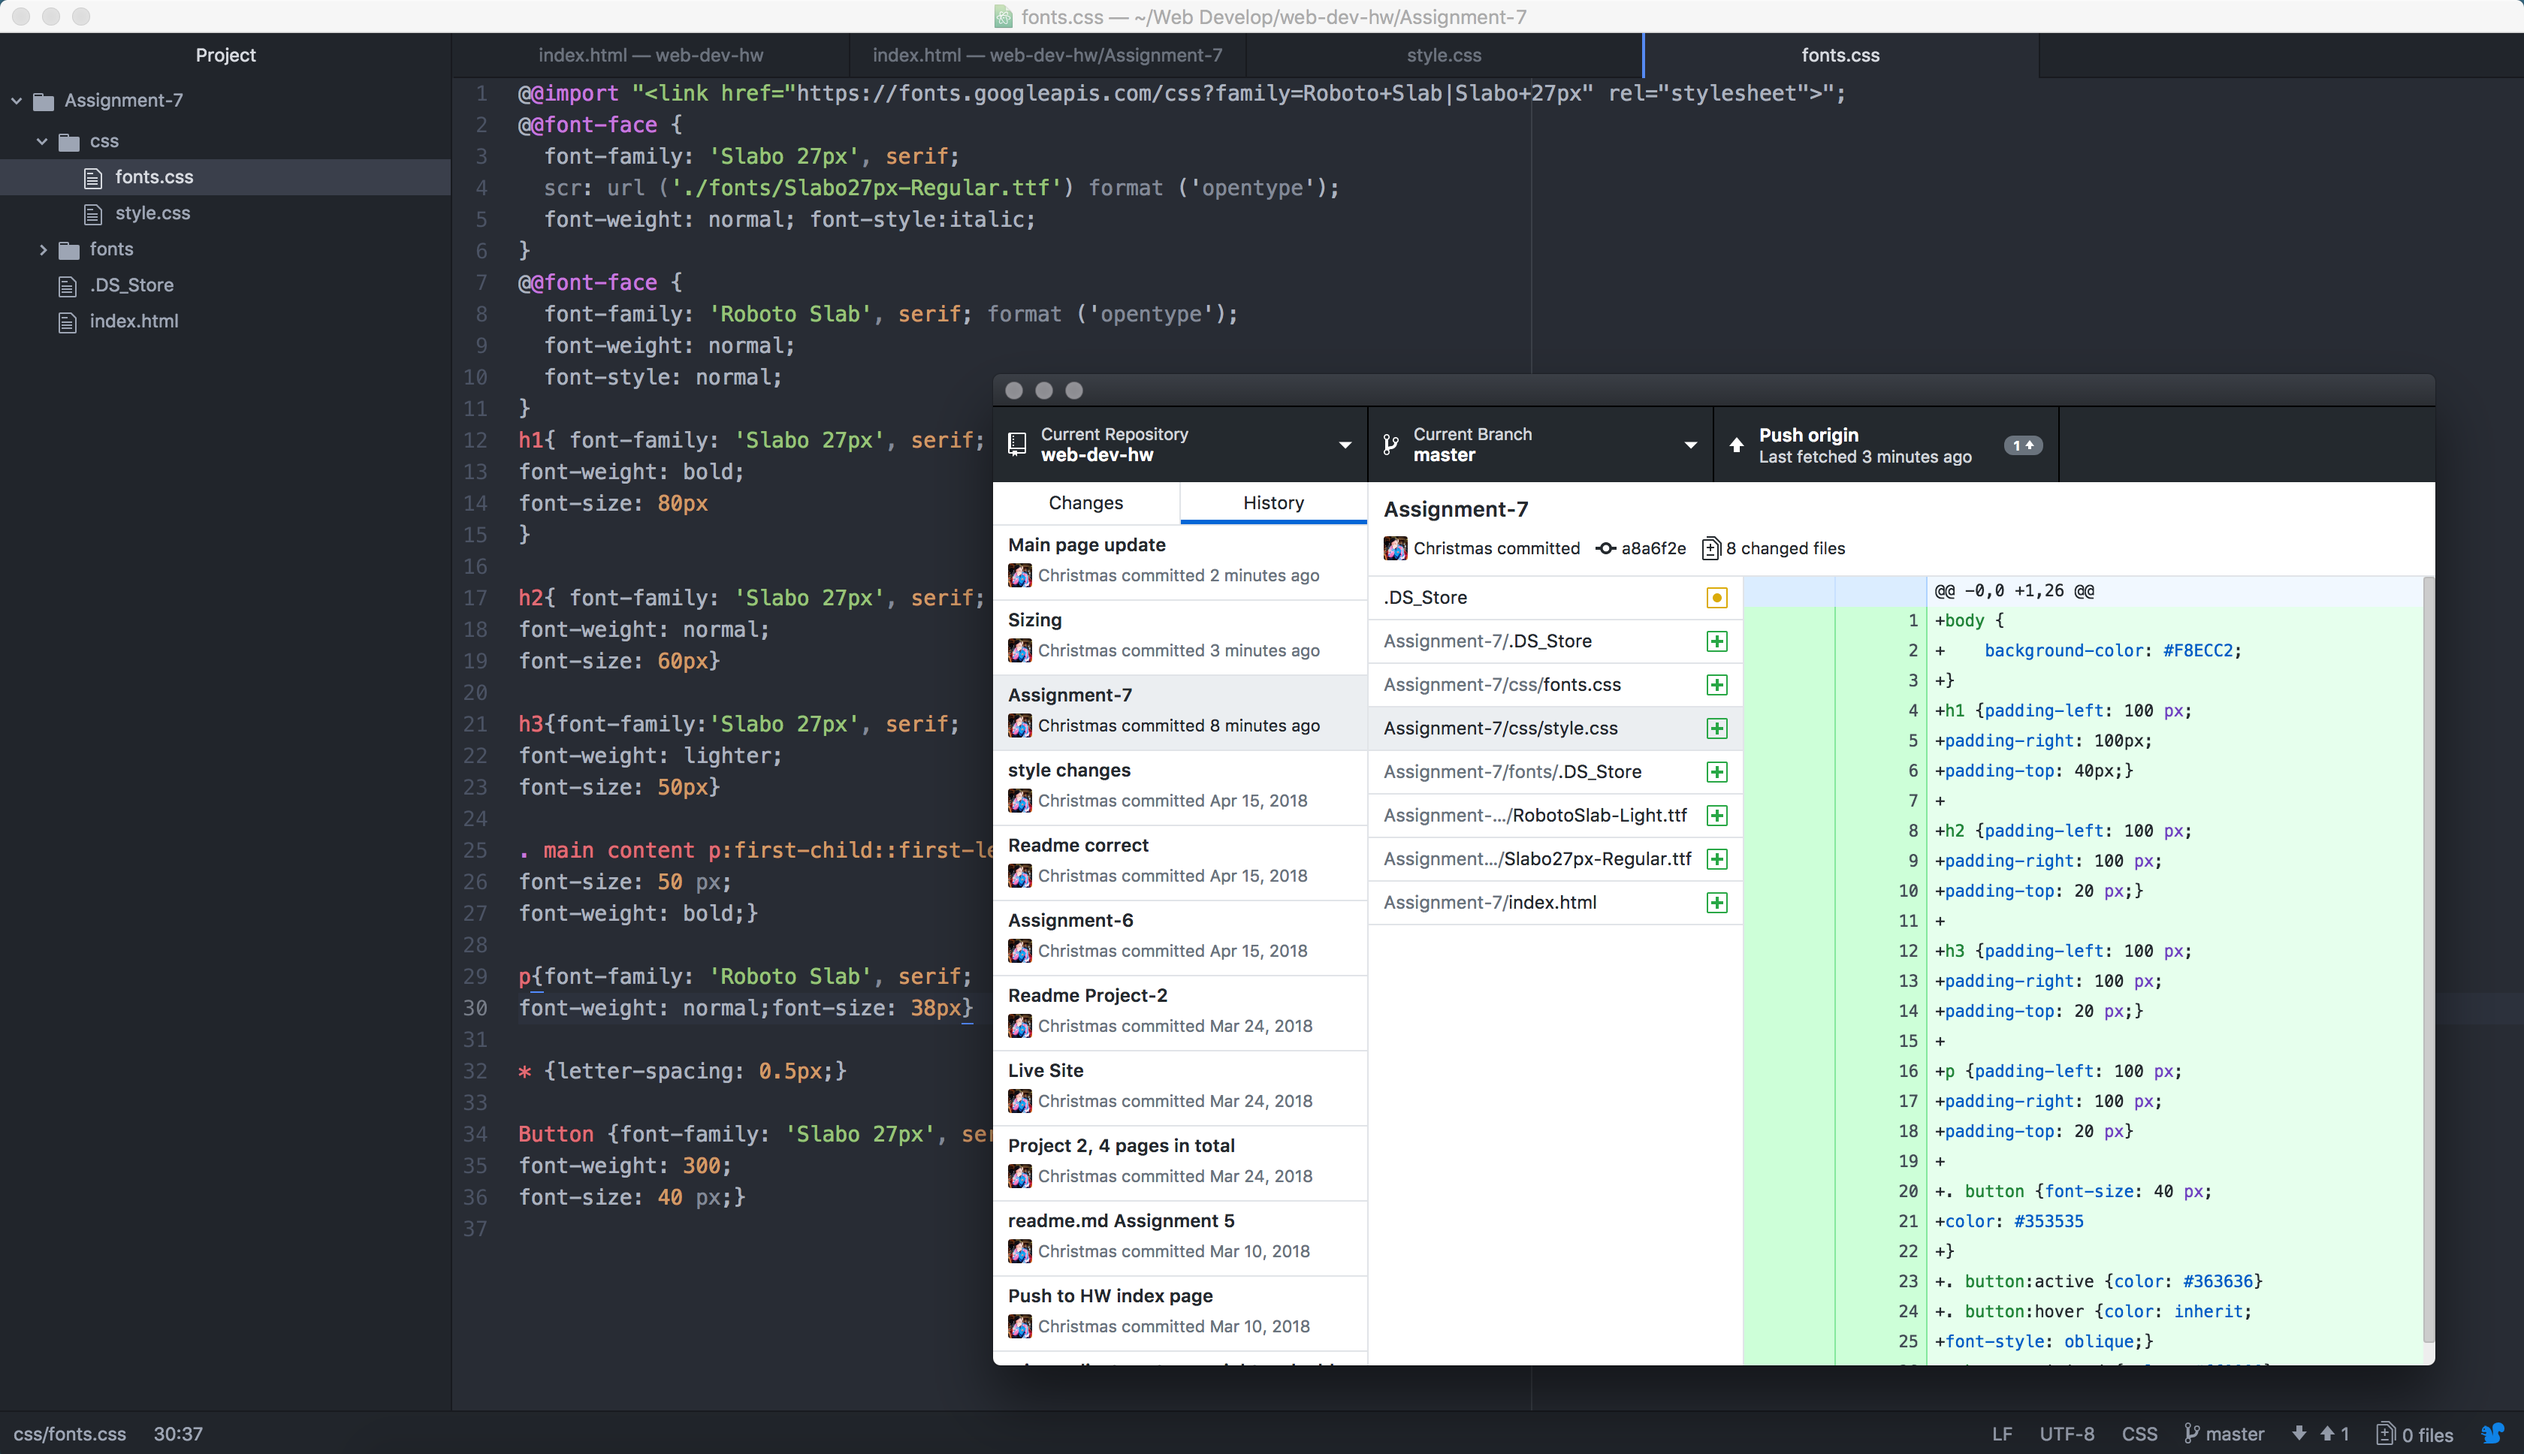
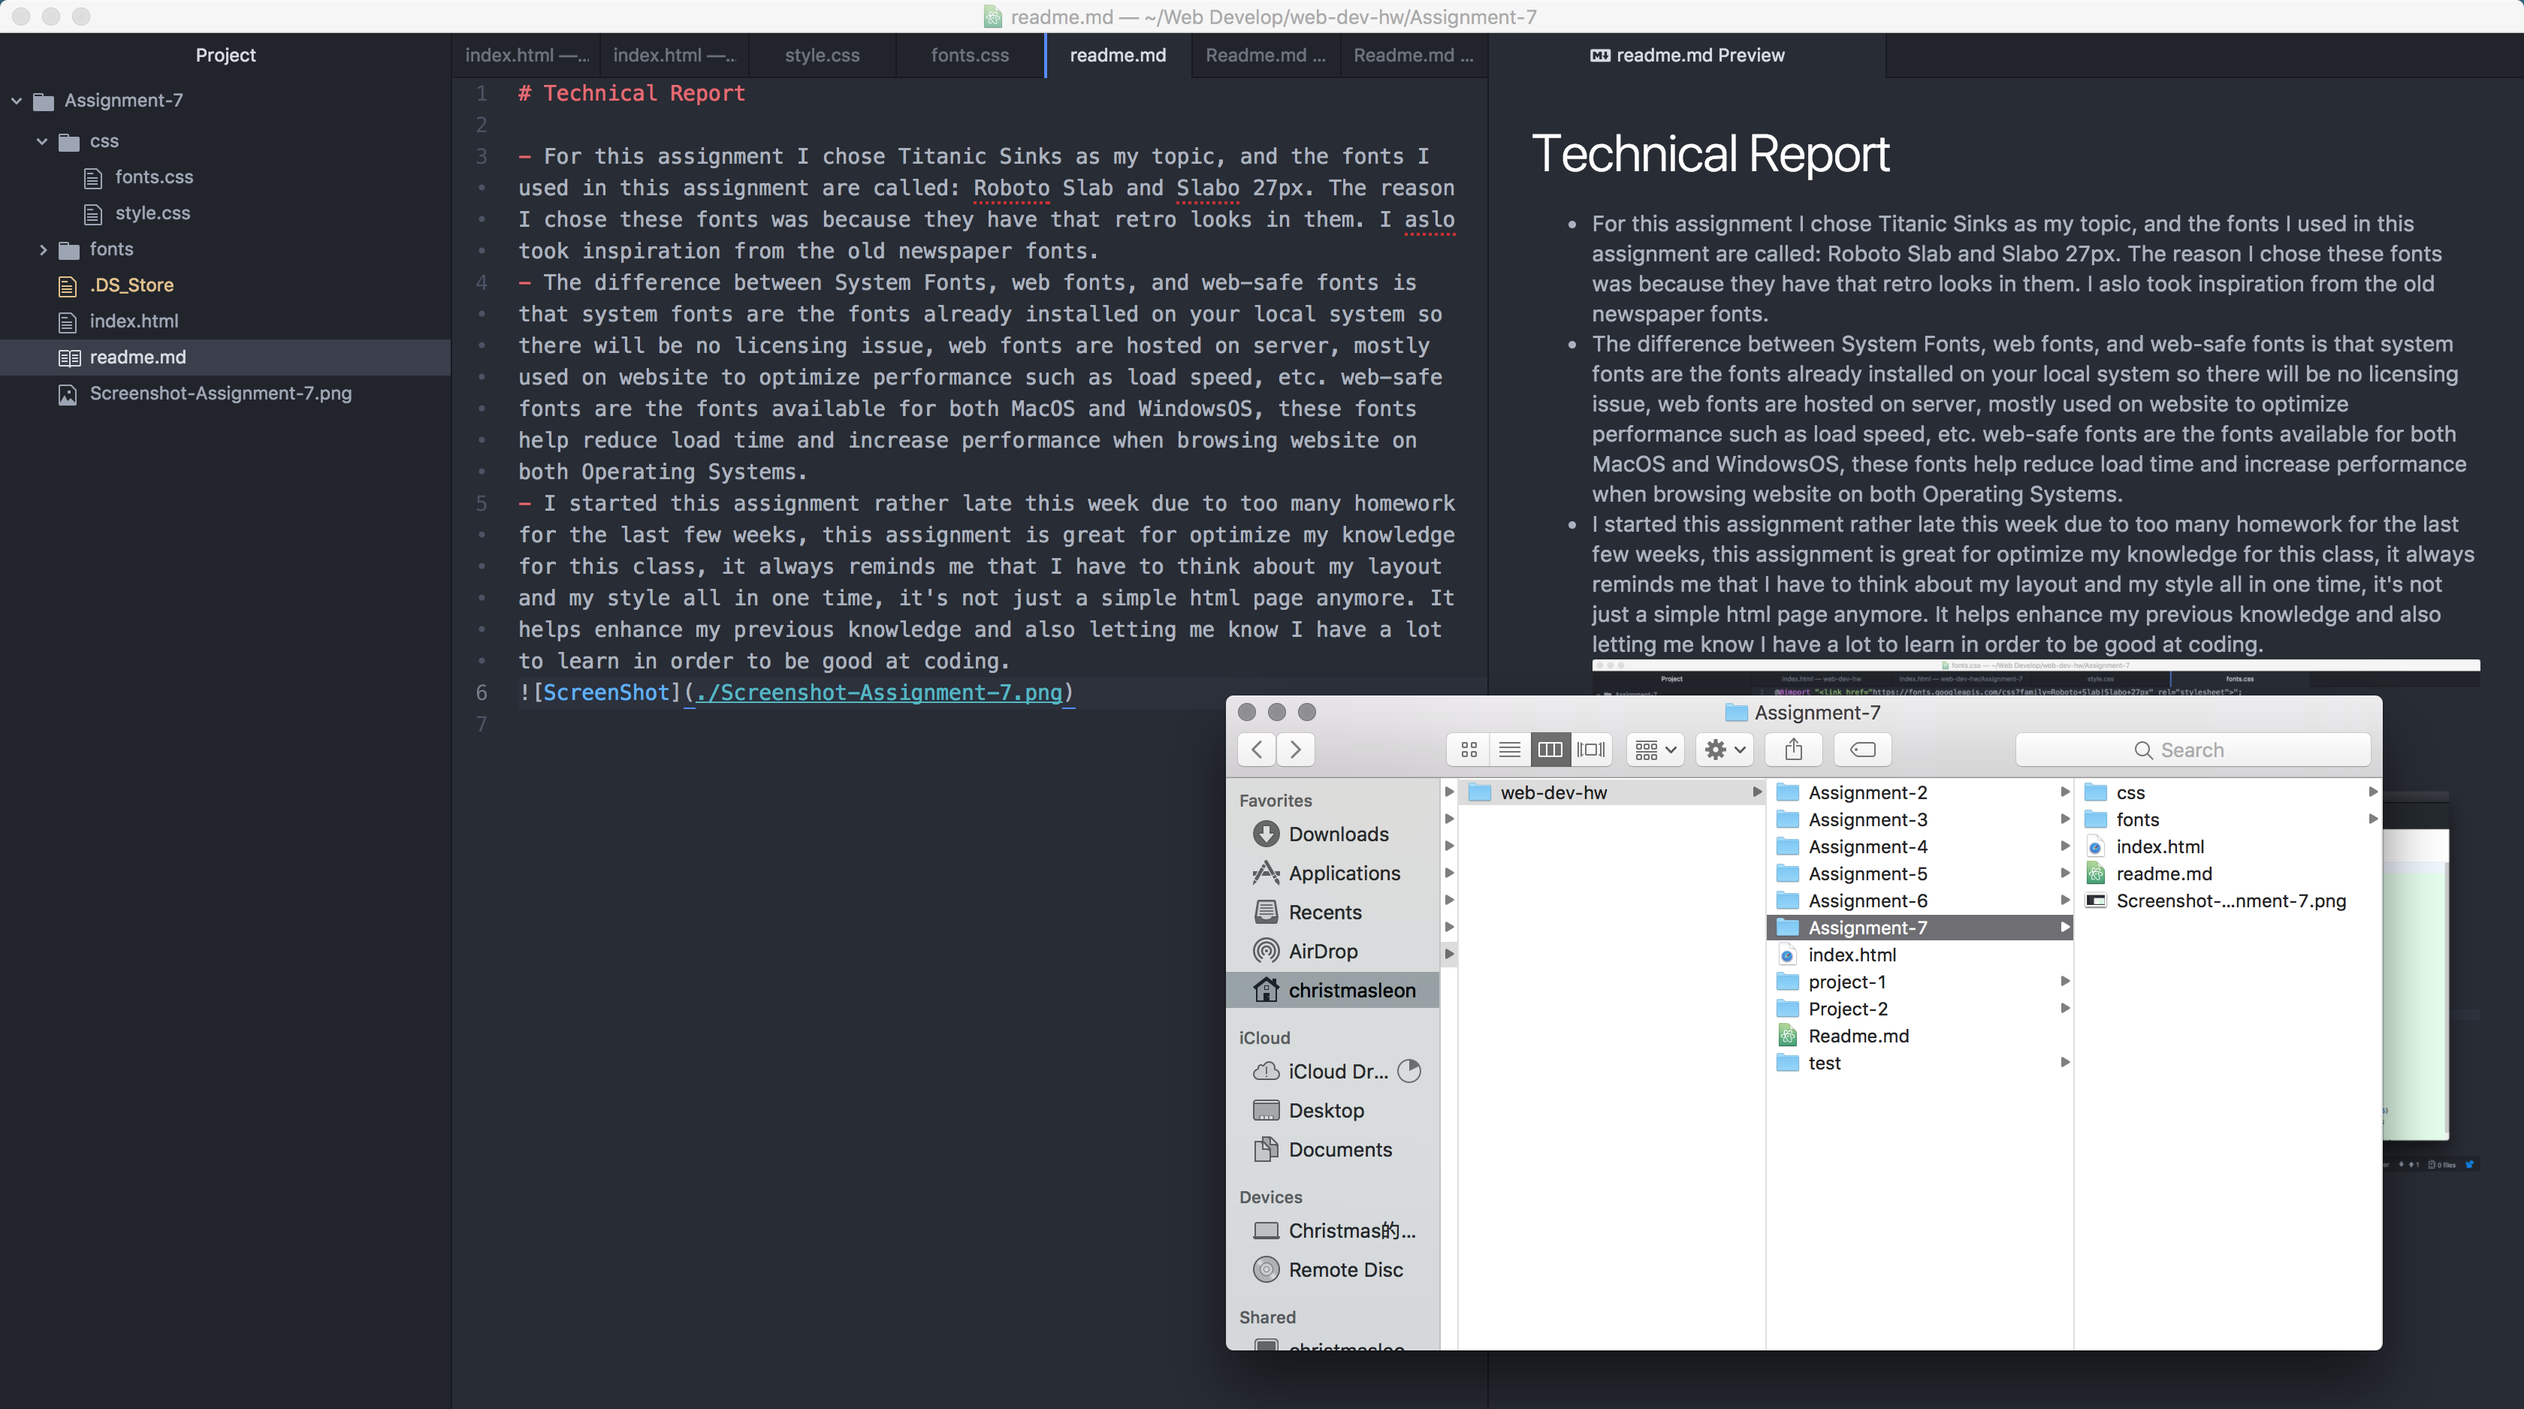
ScreenShot Replace

diff --git a/Assignment-7/readme.md b/Assignment-7/readme.md
@@ -3,4 +3,4 @@
 - For this assignment I chose Titanic Sinks as my topic, and the fonts I used in this assignment are called: Roboto Slab and Slabo 27px. The reason I chose these fonts was because they have that retro looks in them. I aslo took inspiration from the old newspaper fonts.
 - The difference between System Fonts, web fonts, and web-safe fonts is that system fonts are the fonts already installed on your local system so there will be no licensing issue, web fonts are hosted on server, mostly used on website to optimize performance such as load speed, etc. web-safe fonts are the fonts available for both MacOS and WindowsOS, these fonts help reduce load time and increase performance when browsing website on both Operating Systems.
 - I started this assignment rather late this week due to too many homework for the last few weeks, this assignment is great for optimize my knowledge for this class, it always reminds me that I have to think about my layout and my style all in one time, it's not just a simple html page anymore. It helps enhance my previous knowledge and also letting me know I have a lot to learn in order to be good at coding.
-![ScreenShot](./Screenshot-Assignment-7.png)
+![ScreenShot](./ScreenShot-Assignment-7.png)
